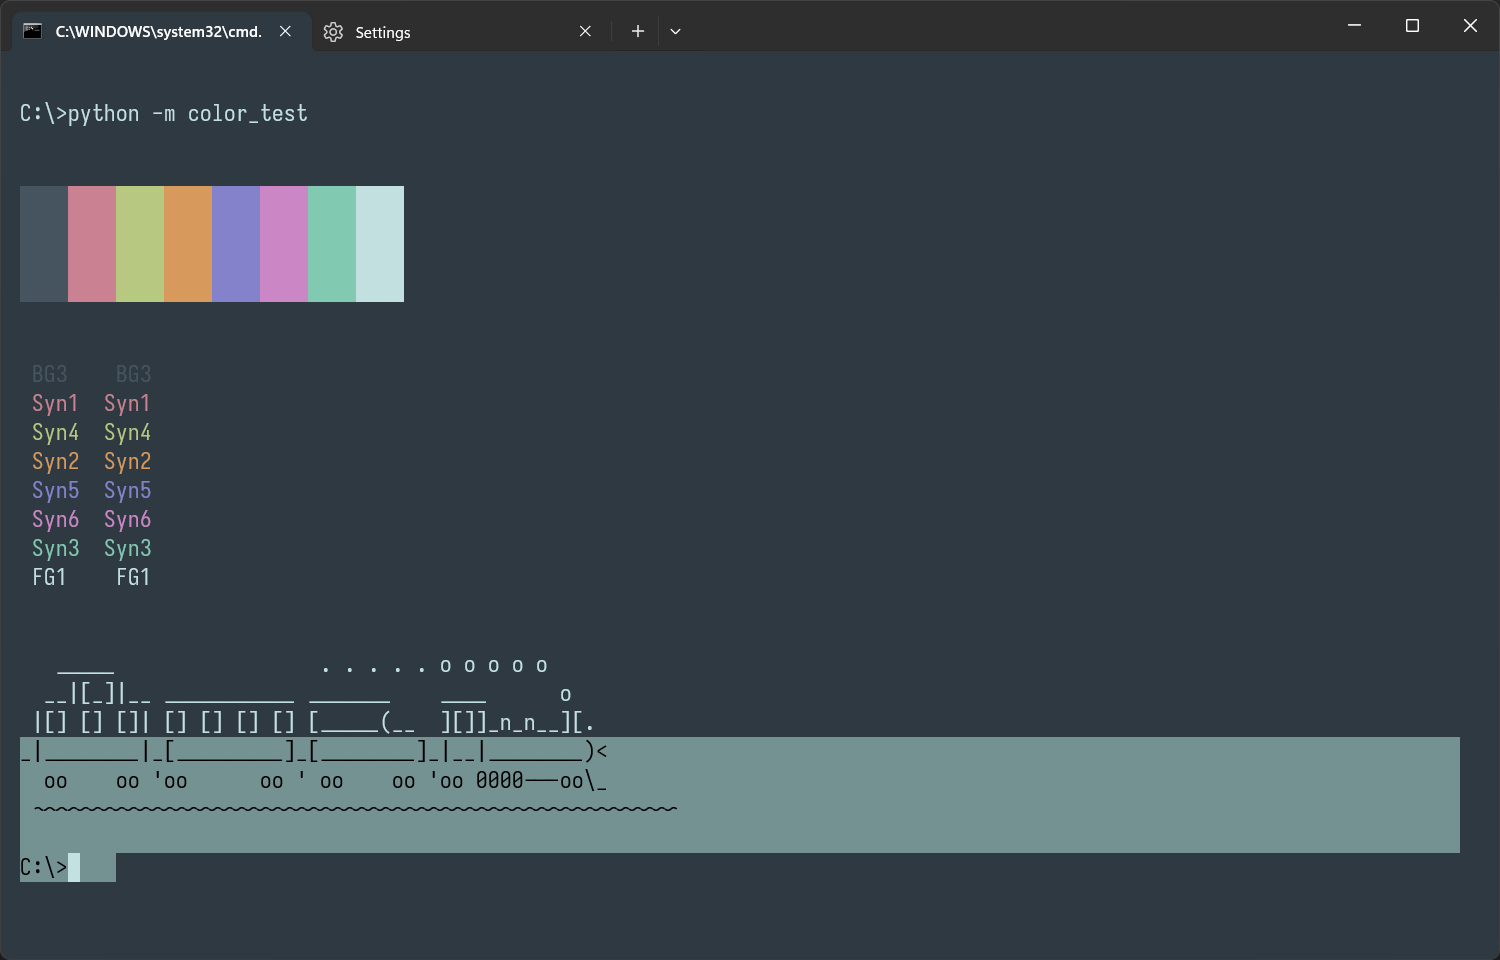
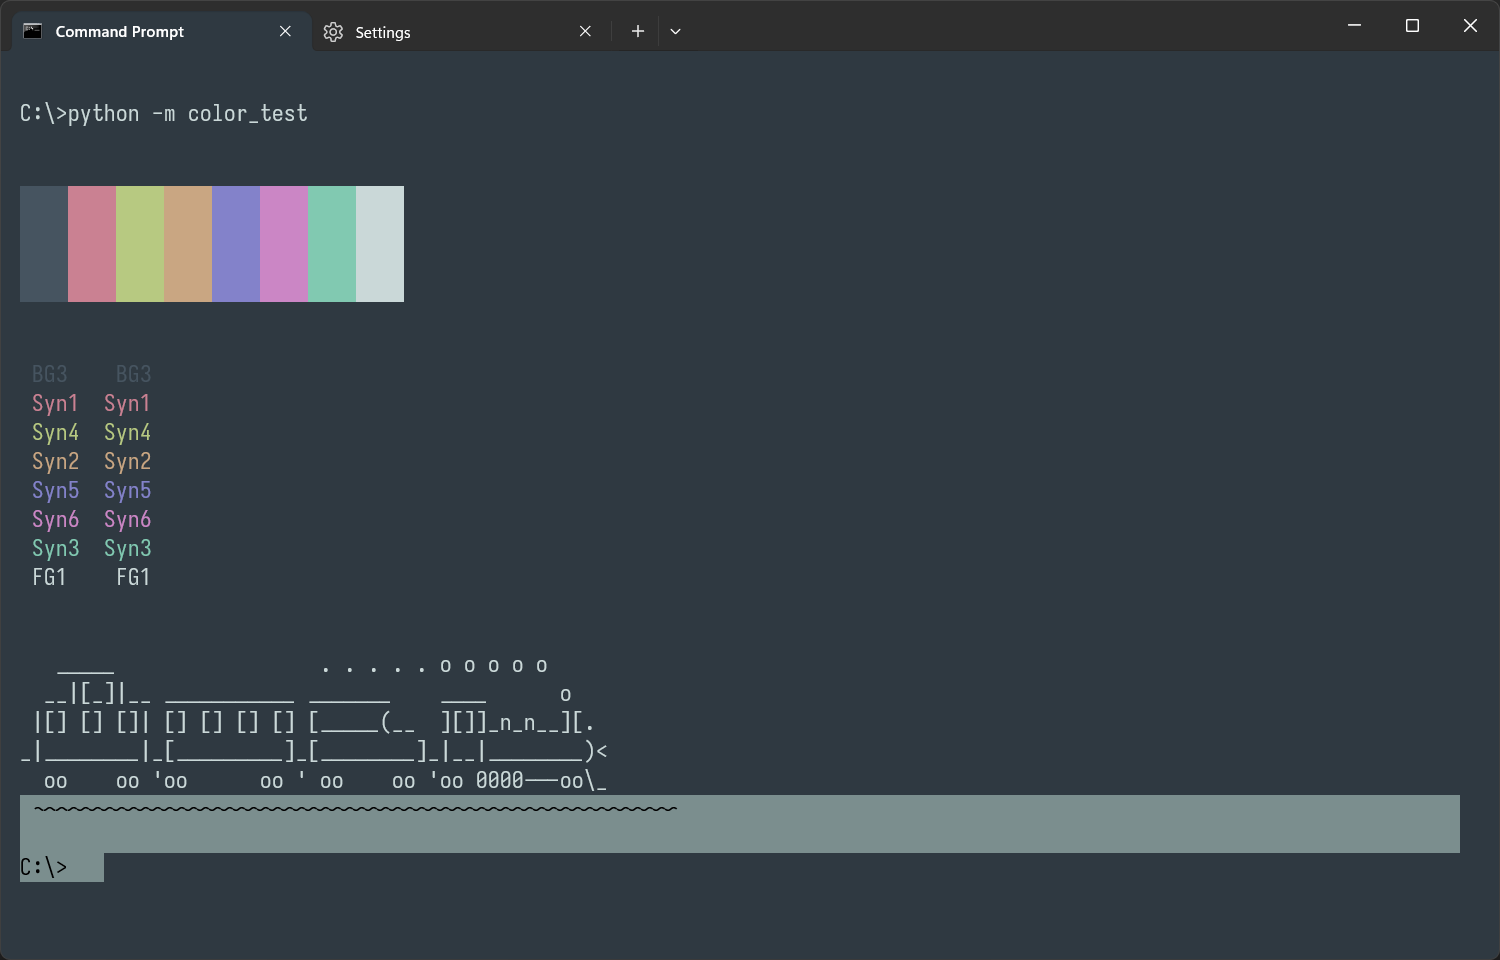
rework pilgrim themes

diff --git a/scheme_files/other/pilgrim-grey.html b/scheme_files/other/pilgrim-grey.html
@@ -42,33 +42,33 @@ this template is meant as a reference sheet for your color theme
 			<tr>
 				<td>Foreground - 1st level<br><a>UI: cursor
                 <br>SYNTAX: default text</a></td>
-				<td>#C2E0E0</td>
-				<td style="background-color:#C2E0E0;"></td>
+				<td>#cad8d8</td>
+				<td style="background-color:#cad8d8;"></td>
 			</tr>
 			<tr>
 				<td>Foreground - 2nd level<br><a>UI: 2nd level surfaces fg, inactive tab or file fg</td>
-				<td>#A2CECE</td>
-				<td style="background-color:#A2CECE;"></td>
+				<td>#acc3c3</td>
+				<td style="background-color:#acc3c3;"></td>
 			</tr>
 			<tr>
 				<td>Foreground - 3rd level<br><a>UI: fold, line numbers<br>SYNTAX: comments</a></td>
-				<td>#AFC1C1</td>
-				<td style="background-color:#AFC1C1;"></td>
+				<td>#b2bdbd</td>
+				<td style="background-color:#b2bdbd;"></td>
 			</tr>
 			<tr>
 				<td>Highlight - 1st level<br><a>UI: alternative marks</a></td>
-				<td>#94AAAA</td>
-				<td style="background-color:#94AAAA;"></td>
+				<td>#96a6a6</td>
+				<td style="background-color:#96a6a6;"></td>
 			</tr>	
 			<tr>
 				<td>Highlight - 2nd level<br><a>UI: selection, search marks, fold marks</a></td>
-				<td>#759292</td>
-				<td style="background-color:#759292;"></td>
+				<td>#7b8e8e</td>
+				<td style="background-color:#7b8e8e;"></td>
 			</tr>	
 			<tr>
 				<td>Highlight - 3rd level<br><a>UI: current line</a></td>
-				<td>#5F7878</td>
-				<td style="background-color:#5F7878;"></td>
+				<td>#637474</td>
+				<td style="background-color:#637474;"></td>
 			</tr>
 		</table>
 		<br>
@@ -89,8 +89,8 @@ this template is meant as a reference sheet for your color theme
 			<tr>
 				<td>syntax 2<br><a>UI: change history revert origin, change history revert modified, warnings
                 <br>SYNTAX: strings, char, regex, verbatim<br>TERMINAL: yellow</a></td>
-				<td>#D7995C</td>
-				<td style="background-color:#D7995C;"></td>
+				<td>#c9a682</td>
+				<td style="background-color:#c9a682;"></td>
 			</tr>
 			<tr>
 				<td>syntax 3<br><a>SYNTAX: opertors, variables, identifiers<br>TERMINAL: cyan</a></td>

diff --git a/scheme_files/other/pilgrim-brown.html b/scheme_files/other/pilgrim-brown.html
@@ -89,8 +89,8 @@ this template is meant as a reference sheet for your color theme
 			<tr>
 				<td>syntax 2<br><a>UI: change history revert origin, change history revert modified, warnings
                 <br>SYNTAX: strings, char, regex, verbatim<br>TERMINAL: yellow</a></td>
-				<td>#D7995C</td>
-				<td style="background-color:#D7995C;"></td>
+				<td>#c9a682</td>
+				<td style="background-color:#c9a682;"></td>
 			</tr>
 			<tr>
 				<td>syntax 3<br><a>SYNTAX: opertors, variables, identifiers<br>TERMINAL: cyan</a></td>
